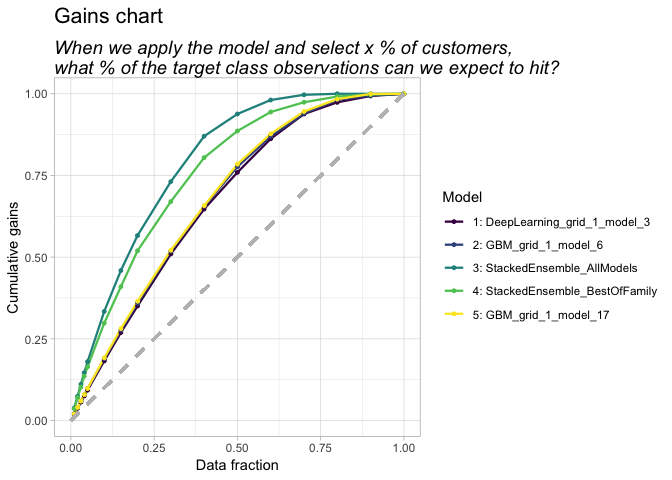
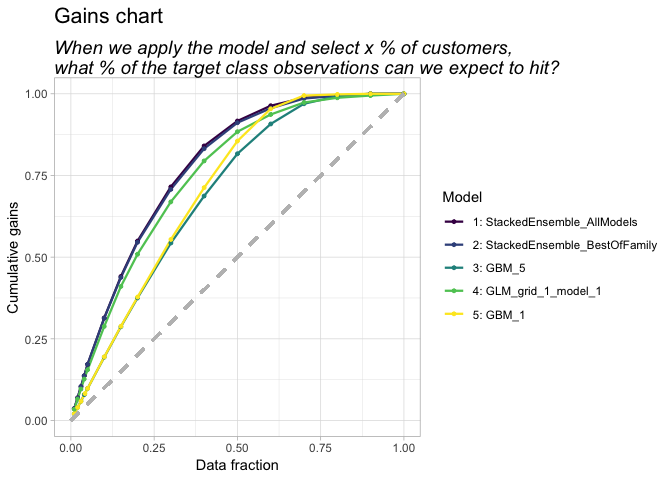
add n_vars

Changed region(s): [[0.0938, 0.1875, 0.5938, 0.8438], [0.7188, 0.4375, 0.9688, 0.6875]]

diff --git a/README.md b/README.md
@@ -32,14 +32,14 @@ h2o.init()
     ##  Connection successful!
     ## 
     ## R is connected to the H2O cluster: 
-    ##     H2O cluster uptime:         17 minutes 51 seconds 
+    ##     H2O cluster uptime:         39 minutes 14 seconds 
     ##     H2O cluster timezone:       Europe/Copenhagen 
     ##     H2O data parsing timezone:  UTC 
     ##     H2O cluster version:        3.22.1.1 
     ##     H2O cluster version age:    2 months and 10 days  
-    ##     H2O cluster name:           H2O_started_from_R_peerchristensen_aau630 
+    ##     H2O cluster name:           H2O_started_from_R_peerchristensen_doo082 
     ##     H2O cluster total nodes:    1 
-    ##     H2O cluster total memory:   3.45 GB 
+    ##     H2O cluster total memory:   3.26 GB 
     ##     H2O cluster total cores:    8 
     ##     H2O cluster allowed cores:  8 
     ##     H2O cluster healthy:        TRUE 
@@ -96,18 +96,18 @@ roc_curves(autoML, test_data = test_hf)
 ![](README_files/figure-markdown_github/unnamed-chunk-3-1.png)
 
     ## # A tibble: 2,010 x 7
-    ##    model_id      algorithm     tpr     fpr model_rank model_id1   model_id2
-    ##    <chr>         <chr>       <dbl>   <dbl>      <int> <chr>       <chr>    
-    ##  1 1: DeepLearn… deeplear… 0       0                1 1: DeepLea… _model_3 
-    ##  2 1: DeepLearn… deeplear… 0       0                1 1: DeepLea… _model_3 
-    ##  3 1: DeepLearn… deeplear… 0.00357 0                1 1: DeepLea… _model_3 
-    ##  4 1: DeepLearn… deeplear… 0.00714 0                1 1: DeepLea… _model_3 
-    ##  5 1: DeepLearn… deeplear… 0.0107  0                1 1: DeepLea… _model_3 
-    ##  6 1: DeepLearn… deeplear… 0.0179  0                1 1: DeepLea… _model_3 
-    ##  7 1: DeepLearn… deeplear… 0.0214  0                1 1: DeepLea… _model_3 
-    ##  8 1: DeepLearn… deeplear… 0.025   0                1 1: DeepLea… _model_3 
-    ##  9 1: DeepLearn… deeplear… 0.0286  0                1 1: DeepLea… _model_3 
-    ## 10 1: DeepLearn… deeplear… 0.0321  0.00129          1 1: DeepLea… _model_3 
+    ##    model_id     algorithm      tpr     fpr model_rank model_id1   model_id2
+    ##    <chr>        <chr>        <dbl>   <dbl>      <int> <chr>       <chr>    
+    ##  1 1: StackedE… stackeden… 0       0                1 1: Stacked… _NULL    
+    ##  2 1: StackedE… stackeden… 0       0                1 1: Stacked… _NULL    
+    ##  3 1: StackedE… stackeden… 0.00357 0                1 1: Stacked… _NULL    
+    ##  4 1: StackedE… stackeden… 0.00714 0                1 1: Stacked… _NULL    
+    ##  5 1: StackedE… stackeden… 0.0143  0                1 1: Stacked… _NULL    
+    ##  6 1: StackedE… stackeden… 0.0179  0                1 1: Stacked… _NULL    
+    ##  7 1: StackedE… stackeden… 0.025   0.00129          1 1: Stacked… _NULL    
+    ##  8 1: StackedE… stackeden… 0.0286  0.00129          1 1: Stacked… _NULL    
+    ##  9 1: StackedE… stackeden… 0.0321  0.00129          1 1: Stacked… _NULL    
+    ## 10 1: StackedE… stackeden… 0.0357  0.00129          1 1: Stacked… _NULL    
     ## # … with 2,000 more rows
 
 Bar charts comparing area under the curve (AUC)
@@ -149,10 +149,14 @@ With autoMLviz, you can also plot variable importannce for the best model. `varI
 varImp_plot(autoML)
 ```
 
-![](README_files/figure-markdown_github/unnamed-chunk-7-1.png)
+    ## [1] "Ensemble model: Plotting Model importance and Variable importances of model with highest importance"
+
+![](README_files/figure-markdown_github/unnamed-chunk-7-1.png)![](README_files/figure-markdown_github/unnamed-chunk-7-2.png)
 
 ``` r
 varImp_ggplot(autoML)
 ```
 
-![](README_files/figure-markdown_github/unnamed-chunk-8-1.png)
+    ## [1] "Ensemble model: Plotting Model importance and Variable importances of model with highest importance"
+
+![](README_files/figure-markdown_github/unnamed-chunk-8-1.png)![](README_files/figure-markdown_github/unnamed-chunk-8-2.png)
